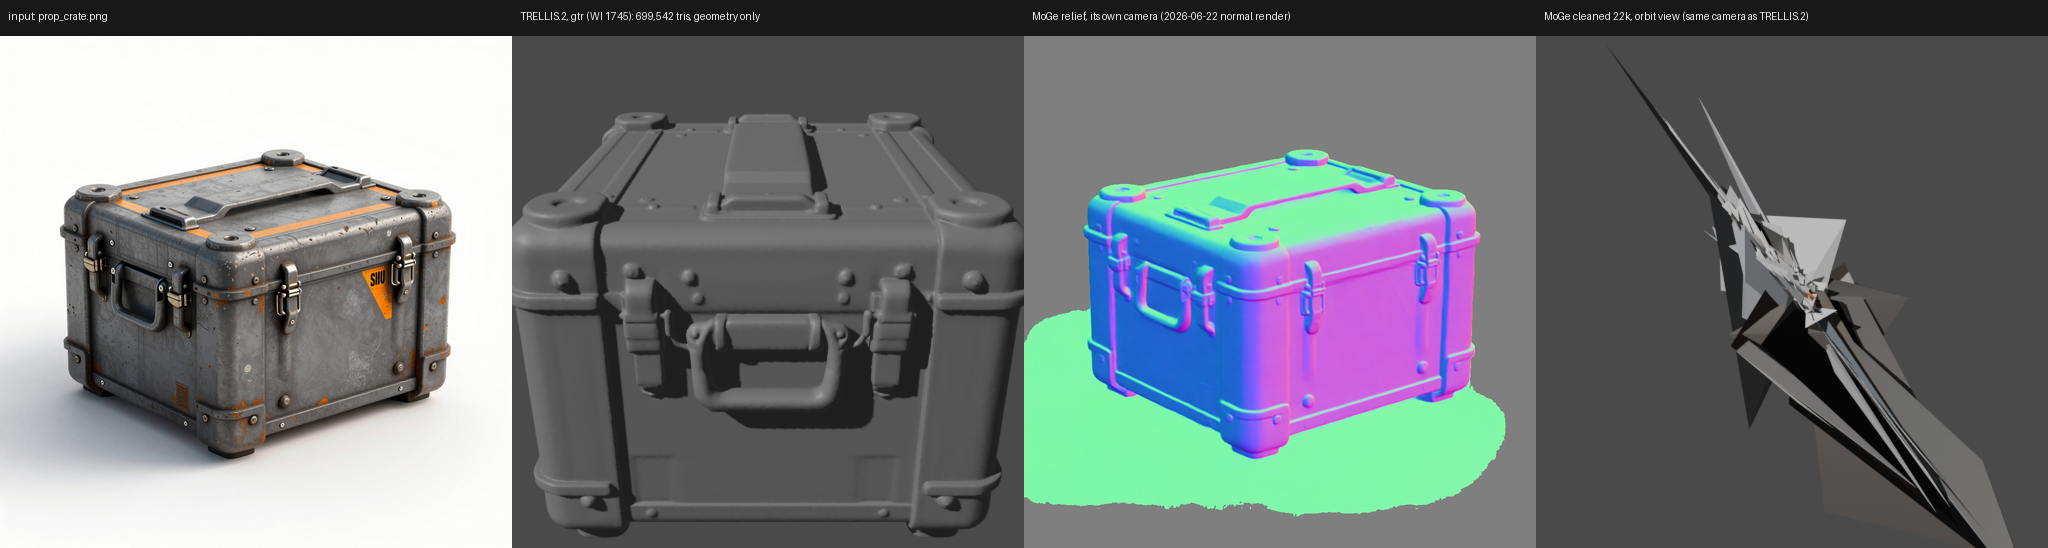
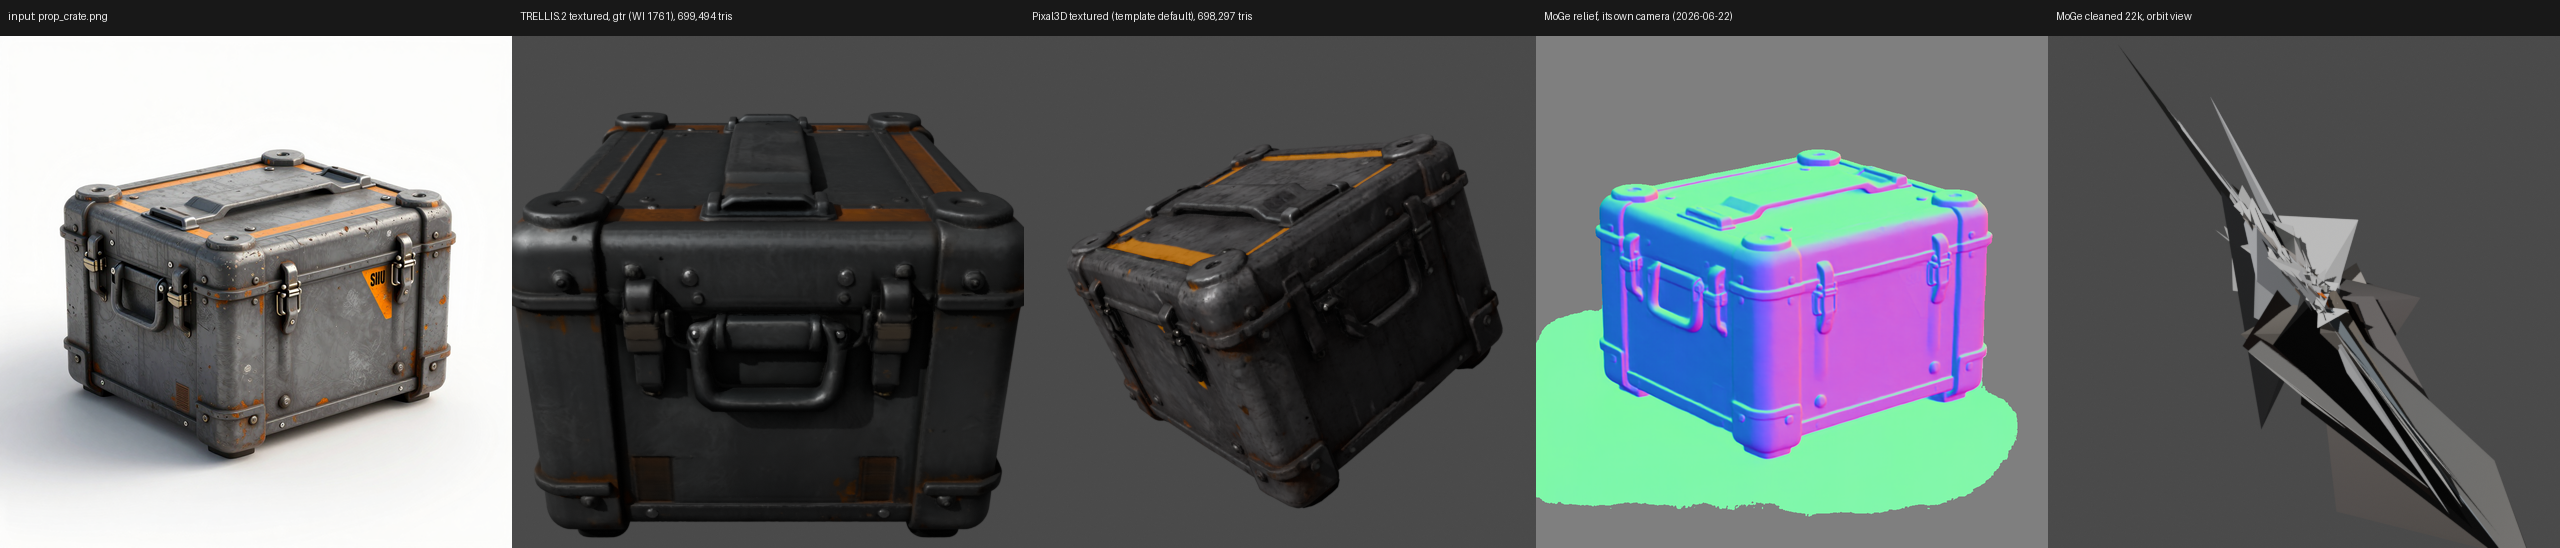
3d-static-props: rocm_unwrap_guard — the TRELLIS.2 texture tail runs on gfx1151
UnwrapMesh's fp64 batched LSCM solve fails on gfx1151 with HIPBLAS_STATUS_ALLOC_FAILED, which stopped
every run of the shipped template before the texture bake. The guard is a custom node that catches
exactly that failure and reruns the same call on the parameterization's own CPU branch; every other
error propagates, and ROCM_UNWRAP_GUARD=0 turns it off. With it both template arms produce
textured, 700k-triangle GLBs on gtr; without it the same graph fails at UnwrapMesh.

diff --git a/3d-static-props/prototypes/trellis2-comfyui/test_rocm_unwrap_guard.py b/3d-static-props/prototypes/trellis2-comfyui/test_rocm_unwrap_guard.py
@@ -1,0 +1,101 @@
+#!/usr/bin/env python3
+"""Tests for the ROCm unwrap guard, CPU only, plain `python3 test_rocm_unwrap_guard.py`, no pytest.
+
+The guard catches exactly one failure and reruns the same call on the function's own CPU branch.
+Everything here drives fakes shaped like `lscm_charts_batch`; the fallback's output is by
+construction the real function's `device=None` output.
+"""
+import os
+import sys
+import types
+from pathlib import Path
+
+HERE = Path(__file__).resolve().parent
+sys.path.insert(0, str(HERE))
+os.environ["ROCM_UNWRAP_GUARD"] = "1"
+import rocm_unwrap_guard as G  # noqa: E402
+
+FAILS = []
+ALLOC = ("CUDA error: HIPBLAS_STATUS_ALLOC_FAILED when calling `hipblasDgetrfBatched( handle, n, "
+         "dA_array, ldda, ipiv_array, info_array, batchsize)`")
+
+
+def check(name, cond, detail=""):
+    print(f"  {'ok  ' if cond else 'FAIL'} {name}" + (f" {detail}" if not cond else ""))
+    if not cond:
+        FAILS.append(name)
+
+
+class Fake:
+    """Records its calls; raises `exc` when given a device (or on every call with `always`), and
+    otherwise returns a result tagged by device."""
+    def __init__(self, exc=None, always=False):
+        self.exc, self.always, self.calls = exc, always, []
+
+    def __call__(self, *args, device=None):
+        self.calls.append((args, device))
+        if self.exc is not None and (device is not None or self.always):
+            raise self.exc
+        return {"device": device, "args": args}
+
+
+def main():
+    print("rocm_unwrap_guard")
+    # A1 — the predicate
+    check("the hipBLAS allocation failure is recognised", G.is_alloc_failure(RuntimeError(ALLOC)))
+    check("another RuntimeError is not", not G.is_alloc_failure(RuntimeError("CUDA error: out of memory")))
+    check("another exception type is not", not G.is_alloc_failure(ValueError("x")))
+    check("the text in a non-RuntimeError is not", not G.is_alloc_failure(MemoryError(ALLOC)))
+
+    gpu = types.SimpleNamespace(type="cuda")
+    # A2 — fallback
+    f = Fake(RuntimeError(ALLOC)); w = G.guarded(f); before = G.fallbacks
+    try:
+        out = w(1, 2, 3, device=gpu)
+    except RuntimeError as e:
+        out = f"raised: {e}"
+    check("on the failure the result is the device=None call's", out == {"device": None, "args": (1, 2, 3)}, out)
+    check("two calls: the device, then None, with the same arguments",
+          [(a, d) for a, d in f.calls] == [((1, 2, 3), gpu), ((1, 2, 3), None)], f.calls)
+    check("the fallback is counted", G.fallbacks == before + 1, G.fallbacks)
+    # A3 — other failures propagate, no retry
+    f = Fake(RuntimeError("CUDA error: out of memory")); w = G.guarded(f)
+    try:
+        w(1, device=gpu); check("another RuntimeError propagates", False, "no exception")
+    except RuntimeError as e:
+        check("another RuntimeError propagates", "out of memory" in str(e))
+    check("no second call on another error", len(f.calls) == 1, f.calls)
+    f = Fake(RuntimeError(ALLOC), always=True); w = G.guarded(f)
+    try:
+        w(1, device=None); check("the failure with device=None already propagates", False, "no exception")
+    except RuntimeError:
+        check("the failure with device=None already propagates", len(f.calls) == 1, f.calls)
+    f = Fake(RuntimeError(ALLOC), always=True); w = G.guarded(f)
+    try:
+        w(1, device=gpu); check("a failing CPU fallback propagates", False, "no exception")
+    except RuntimeError:
+        check("a failing CPU fallback propagates, after exactly two calls", len(f.calls) == 2, f.calls)
+    # A4 — success passes through
+    f = Fake(); w = G.guarded(f)
+    check("success: one call, its result", w(7, device=gpu) == {"device": gpu, "args": (7,)} and len(f.calls) == 1)
+    # A5 — install and switches
+    mod = types.SimpleNamespace(lscm_charts_batch=Fake())
+    original = mod.lscm_charts_batch
+    check("install replaces the attribute", G.install(mod) and mod.lscm_charts_batch is not original)
+    wrapped = mod.lscm_charts_batch
+    check("install is idempotent", G.install(mod) and mod.lscm_charts_batch is wrapped)
+    check("the original is kept on the wrapper", wrapped.rocm_unwrap_guard_original is original)
+    check("install without the function returns False", G.install(types.SimpleNamespace()) is False)
+    os.environ["ROCM_UNWRAP_GUARD"] = "0"
+    check("ROCM_UNWRAP_GUARD=0 is not wanted", G.wanted() is False)
+    os.environ["ROCM_UNWRAP_GUARD"] = "1"
+    check("ROCM_UNWRAP_GUARD=1 is wanted", G.wanted() is True)
+
+    print()
+    if FAILS:
+        print(f"{len(FAILS)} FAILED: {', '.join(FAILS)}"); return 1
+    print("all checks passed"); return 0
+
+
+if __name__ == "__main__":
+    sys.exit(main())

diff --git a/3d-static-props/prototypes/trellis2-comfyui/rocm_unwrap_guard/__init__.py b/3d-static-props/prototypes/trellis2-comfyui/rocm_unwrap_guard/__init__.py
@@ -1,0 +1,87 @@
+"""ROCm guard for UnwrapMesh's fp64 batched solve (asset-harness WI 1761, from WI 1615).
+
+On torch 2.10.0+rocm7.2.4 / gfx1151, hipBLAS's fp64 batched LU (`hipblasDgetrfBatched`) returns
+HIPBLAS_STATUS_ALLOC_FAILED for mid-sized matrices beyond small batches (N=128 from 65,535 matrices,
+N=224-384 above 16) with memory to spare. `UnwrapMesh` hits it in
+`comfy_extras.mesh3d.uv_unwrap.parameterize.lscm_charts_batch`, whose GPU branch solves every
+batchable chart at once, and the whole node fails.
+
+A ComfyUI custom-node package that registers no nodes: at import it wraps `lscm_charts_batch` so
+that when the GPU call raises that failure, the same call runs again on the function's own numpy
+branch (`device=None`). Any other exception propagates. Active on HIP builds or when
+ROCM_UNWRAP_GUARD=1; ROCM_UNWRAP_GUARD=0 switches it off. Install by copying this directory into
+the checkout's `custom_nodes/`.
+"""
+import functools
+import logging
+import os
+
+import torch
+
+_ENV = "ROCM_UNWRAP_GUARD"
+_MARKER = "HIPBLAS_STATUS_ALLOC_FAILED"
+_log = logging.getLogger("rocm_unwrap_guard")
+
+NODE_CLASS_MAPPINGS = {}
+NODE_DISPLAY_NAME_MAPPINGS = {}
+
+fallbacks = 0   # how many calls fell back to the CPU in this process
+
+
+def wanted() -> bool:
+    """Whether the guard should be active for this process."""
+    flag = os.environ.get(_ENV)
+    if flag == "0":
+        return False
+    if flag == "1":
+        return True
+    return bool(getattr(torch.version, "hip", None))
+
+
+def is_alloc_failure(exc: BaseException) -> bool:
+    """The one failure the guard handles: hipBLAS refusing to allocate for a batched solve."""
+    return isinstance(exc, RuntimeError) and _MARKER in str(exc)
+
+
+def guarded(original):
+    """Wrap an `lscm_charts_batch`-shaped function: on the allocation failure, rerun with device=None."""
+    @functools.wraps(original)
+    def call(*args, **kwargs):
+        global fallbacks
+        try:
+            return original(*args, **kwargs)
+        except RuntimeError as exc:
+            if not is_alloc_failure(exc) or kwargs.get("device") is None:
+                raise
+            fallbacks += 1
+            if fallbacks == 1:
+                _log.warning("rocm_unwrap_guard: GPU batched solve refused (%s); solving on the CPU", _MARKER)
+            return original(*args, **{**kwargs, "device": None})
+    call.rocm_unwrap_guard_original = original
+    return call
+
+
+def install(param_module=None) -> bool:
+    """Wrap `param_module.lscm_charts_batch`; idempotent. Returns whether the guard is installed."""
+    if param_module is None:
+        from comfy_extras.mesh3d.uv_unwrap import parameterize as param_module  # noqa: PLC0415
+    current = getattr(param_module, "lscm_charts_batch", None)
+    if current is None:
+        _log.warning("rocm_unwrap_guard: parameterize has no lscm_charts_batch; nothing installed")
+        return False
+    if getattr(current, "rocm_unwrap_guard_original", None) is not None:
+        return True
+    param_module.lscm_charts_batch = guarded(current)
+    return True
+
+
+if wanted():
+    try:
+        installed = install()
+    except ImportError:
+        installed = False   # imported outside ComfyUI (the unit test); install() is called explicitly there
+        _log.info("rocm_unwrap_guard: comfy_extras not importable here; nothing installed")
+    if installed:
+        _log.info("rocm_unwrap_guard: active — UnwrapMesh's batched solve falls back to the CPU on %s", _MARKER)
+else:
+    _log.info("rocm_unwrap_guard: inactive (not a HIP build, or %s=0)", _ENV)

diff --git a/3d-static-props/findings/2026-09-23-trellis2-texture-and-pixal3d.md b/3d-static-props/findings/2026-09-23-trellis2-texture-and-pixal3d.md
@@ -5,7 +5,8 @@ ComfyUI v0.34.6, image `localhost/wi1600-comfyui:0.34.6`
 
 ## Verdicts
 
-- **The shipped template's texture tail does not run on gfx1151.** Both arms fail at `UnwrapMesh`.
+- **The shipped template's texture tail does not run on gfx1151 unguarded.** Both arms fail at
+  `UnwrapMesh`. With WI 1761's guard it runs (update below).
   - The error is `HIPBLAS_STATUS_ALLOC_FAILED` in `hipblasDgetrfBatched`: the fp64 batched solve
     in the UV parameterization (`comfy_extras/mesh3d/uv_unwrap/parameterize.py`,
     `lscm_charts_batch`), which always runs on the compute device.
@@ -30,11 +31,28 @@ ComfyUI v0.34.6, image `localhost/wi1600-comfyui:0.34.6`
 - **The template's texture resolution is 4096.** A `PrimitiveInt` feeds both
   `UnwrapMesh.resolution` and `BakeTextureFromVoxel.texture_size`, overriding the bake's 2048 widget.
 
+## Update 2026-09-23 (WI 1761): the texture tail runs with a guard
+
+`rocm_unwrap_guard` (a custom node) reruns the refused fp64 batched solve on the parameterization's
+own CPU branch. With it, both arms finish on `gtr`. The fallback fired once in each run.
+
+| Arm | Time | Triangles | Textures | Peak GTT from an empty pool |
+|---|---|---|---|---|
+| TRELLIS.2 | 1,890 s | 699,494 | base colour, metallic-roughness, occlusion (4096) | 61.3 GB |
+| Pixal3D (default) | 1,090 s | 698,297 | same | 40.3 GB |
+
+- Both renders show the crate's orange trim, rust, latches, handle and rivets, with no untextured
+  patches.
+- The Pixal3D asset keeps the camera pose it estimated from the input, so it sits tilted in its
+  frame; TRELLIS.2's is axis-aligned.
+- Neither reproduces the input's small orange label on the front face.
+- With the guard active, `RemeshMesh` peaked about 35 GB higher than without it in 4 of 4 runs.
+  The mechanism is not found (WI 1766).
+
 ## The comparison for WI 1602
 
-`samples-2026-09-23/crate_trellis2_vs_moge.png`: the input, TRELLIS.2's decimated geometry (WI
-1745, untextured), MoGe's relief from its own camera, and MoGe's cleaned 22k mesh from the same
-orbit camera. TripoSR never produced a crate (2026-06-22: blocked at model load), so MoGe is the
+`samples-2026-09-23/crate_trellis2_vs_moge.png`: the input; TRELLIS.2 and Pixal3D textured (WI
+1761); MoGe's relief from its own camera; and MoGe's cleaned 22k mesh from the same orbit camera. TripoSR never produced a crate (2026-06-22: blocked at model load), so MoGe is the
 prior lane's only output. The MoGe mesh is a one-camera relief: from any orbit angle it is shards.
 
 ## Tools

diff --git a/3d-static-props/prototypes/trellis2-comfyui/README.md b/3d-static-props/prototypes/trellis2-comfyui/README.md
@@ -136,8 +136,24 @@ WI 1615 added:
   (the failing node printed), 2 validation refusal, 3 timeout.
 - `side_by_side.py OUT.png "LABEL=img.png" …`: a labelled row of renders.
 
-**The texture tail does not run on gfx1151 yet:** `UnwrapMesh` fails on a hipBLAS fp64
-batched-LU limit (`../../findings/2026-09-23-trellis2-texture-and-pixal3d.md`, WI 1761).
+## The unwrap guard: required for the texture tail on gfx1151
+
+`UnwrapMesh`'s batched fp64 LSCM solve (`comfy_extras/mesh3d/uv_unwrap/parameterize.py`) fails on
+gfx1151 with `HIPBLAS_STATUS_ALLOC_FAILED` when hipBLAS refuses the batch, with memory to spare.
+`rocm_unwrap_guard/` is a second custom-node package: when that one failure is raised, it reruns
+the same call on the function's own CPU branch, and every other error propagates. Install it like
+the GEMM guard: `rocm_unwrap_guard/install.sh $PWD/ComfyUI`. The log shows `rocm_unwrap_guard:
+active`, and a warning the first time it falls back in a process (it counts every fallback in
+`rocm_unwrap_guard.fallbacks`). `ROCM_UNWRAP_GUARD=0` switches it off, `=1` forces it
+on. `test_rocm_unwrap_guard.py` runs on any host with torch.
+
+With both guards, both arms of the shipped template produce a textured GLB on `gtr` (WI 1761):
+- TRELLIS.2: 1,890 s, 699,494 triangles;
+- Pixal3D: 1,090 s, 698,297 triangles.
+
+Each GLB carries base colour, metallic-roughness and occlusion textures at 4096. With the guard
+active, `RemeshMesh` has peaked about 35 GB higher than without it, and the cause is not found (WI
+1766). Give a guarded run the headroom.
 
 ## Gotchas
 
